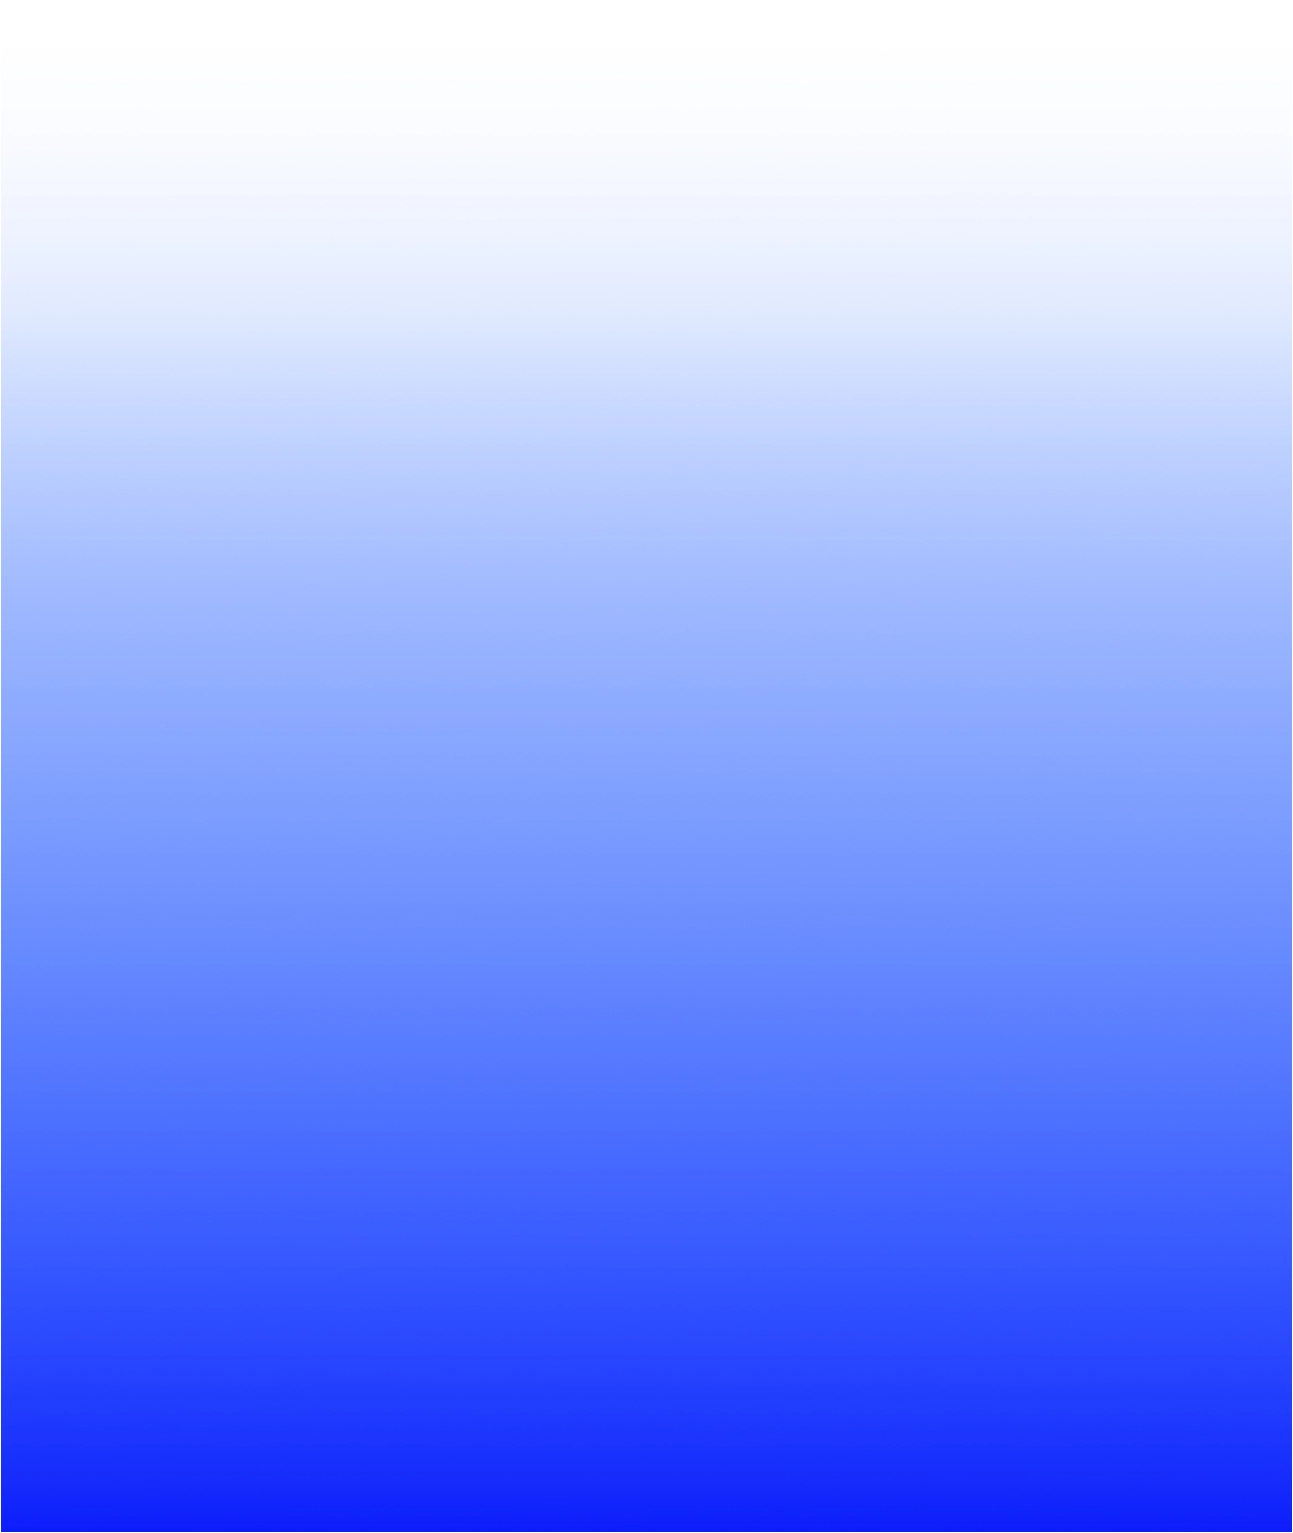
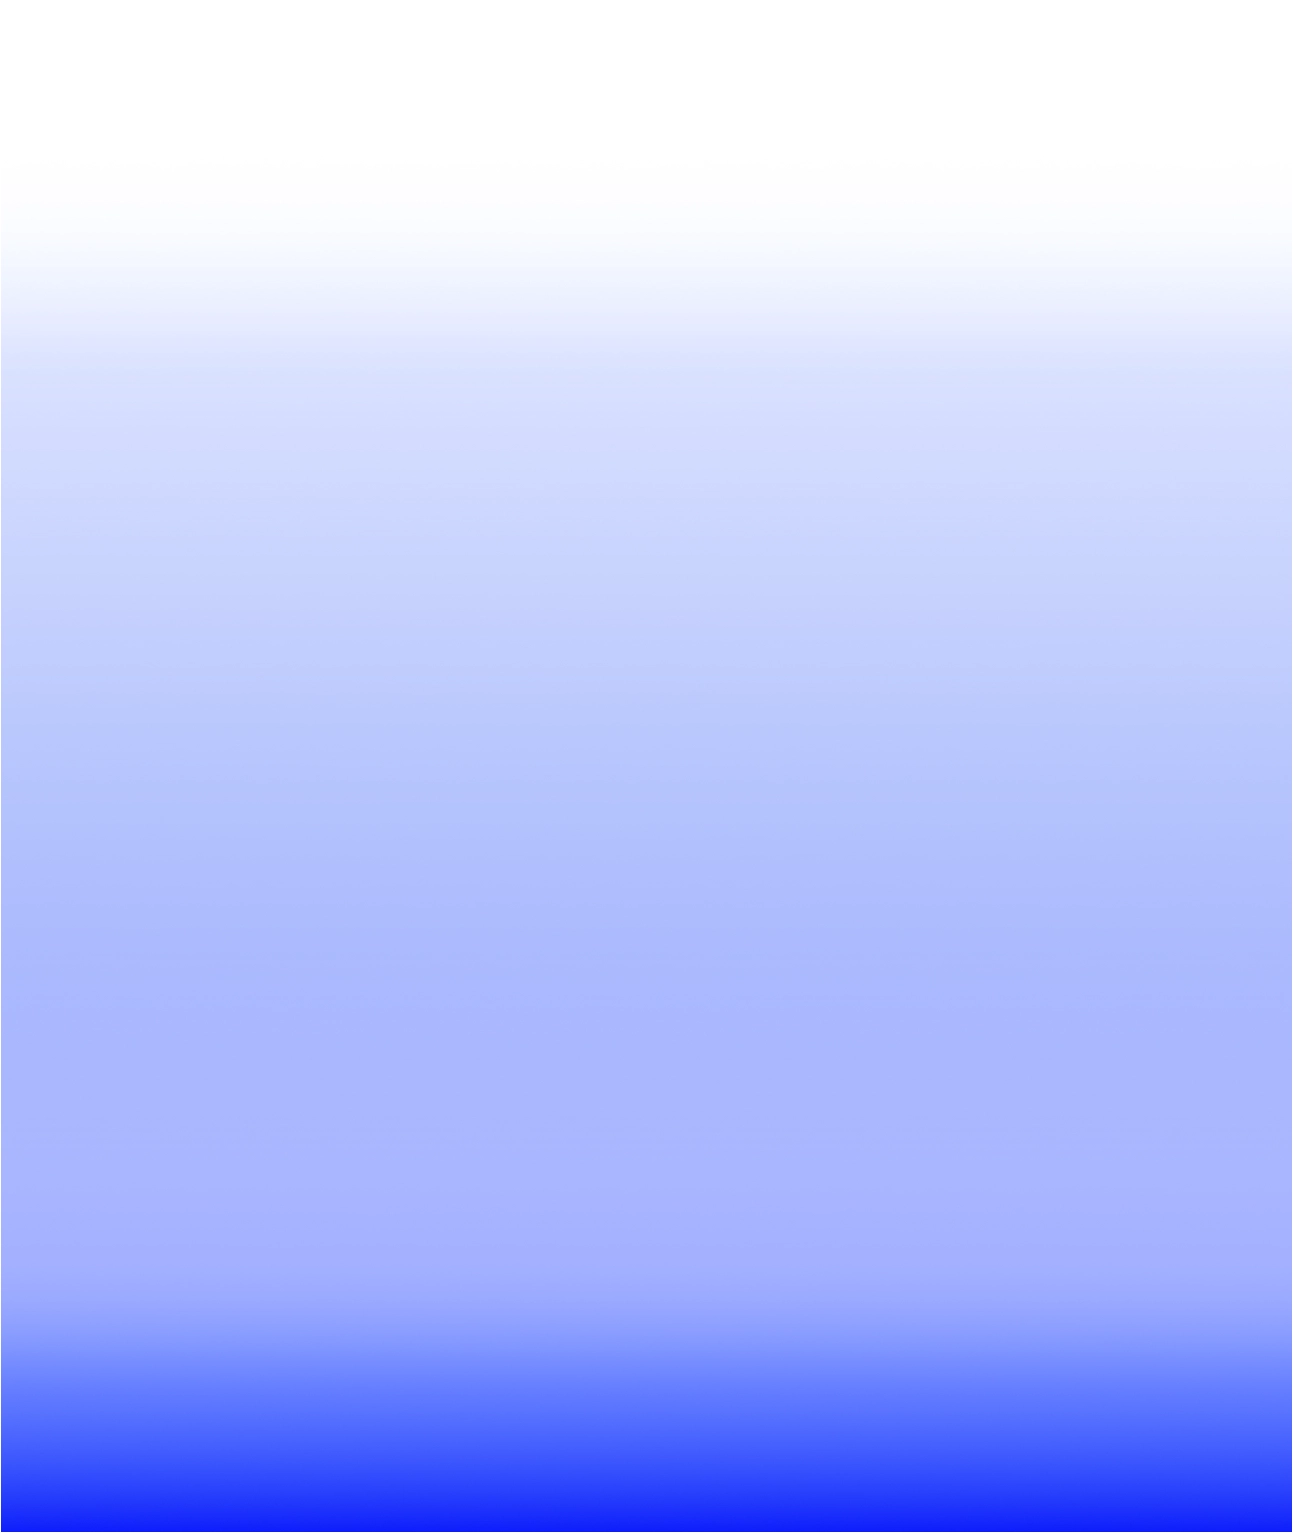
har ændret baggrunden så den ikke er så skarp

diff --git a/stot.html b/stot.html
@@ -69,19 +69,50 @@
     
     <section class="cirkler">
         <article id="circle1">
-        <p>Bliv frivillig</p>
+        <input type="checkbox" id="tryk1" hidden>
+        <label for="tryk1" class="open">Bliv frivillig</label>
+        <section class="popup">
+            <p>Du kan melde dig som frivillig og støtte Radar!</p>
+            <label for="tryk1" class="close">Luk</label>
+            <input type="checkbox" id="close1" hidden>
+            </section>
         </article>
+
         <article id="circle2">
-            <p>Doner</p>
+            <input type="checkbox" id="tryk2" hidden>
+        <label for="tryk2" class="open">Følg os på Instagram</label>
+        <section class="popup">
+            <p>Du kan melde dig som frivillig og støtte Radar!</p>
+            <label for="tryk2" class="close">Luk</label>
+            <input type="checkbox" id="close2" hidden>
+            </section>
         </article>
         <article id="circle3">
-            <p>Bliv frivillig</p>
+            <input type="checkbox" id="tryk3" hidden>
+        <label for="tryk3" class="open">Donér</label>
+        <section class="popup">
+            <p>Du kan melde dig som frivillig og støtte Radar!</p>
+            <label for="tryk3" class="close">Luk</label>
+            <input type="checkbox" id="close3" hidden>
+            </section>
         </article>
         <article id="circle4">
-            <p>Følg os på Instagram</p>
+            <input type="checkbox" id="tryk4" hidden>
+            <label for="tryk4" class="open">Køb billet</label>
+            <section class="popup">
+                <p>Du kan melde dig som frivillig og støtte Radar!</p>
+                <label for="tryk4" class="close">Luk</label>
+                <input type="checkbox" id="close4" hidden>
+                </section>
         </article>
         <article id="circle5">
-            <p>Del dine minder</p>
+            <input type="checkbox" id="tryk5" hidden>
+            <label for="tryk5" class="open">Del dine minder</label>
+            <section class="popup">
+                <p>Du kan melde dig som frivillig og støtte Radar!</p>
+                <label for="tryk5" class="close">Luk</label>
+                <input type="checkbox" id="close5" hidden>
+                </section>
         </article>
     </section>
 </section>

diff --git a/style.css/stot.css b/style.css/stot.css
@@ -34,7 +34,7 @@ h1 {
     text-align: center;
     margin-top: 350px;
     color: var(--primary-color);
-    font-size: 3rem;
+    font-size: 4rem;
 }
 
 p {
@@ -94,6 +94,62 @@ section.cirkler {
     justify-content: space-between;
     align-items: center;
 }
+
+.popup {
+    display: none;
+    position: absolute;
+    top: -20px;
+    left: 50%;
+    transform: translate(-50%);
+    background: #8099e4ed;
+    border: 1px solid var(--secondary-color);
+    padding: 10px;
+    border-radius: 0px;
+    box-shadow: 0 2px 5px var(--secondary-color);
+    z-index: 10;
+}
+
+input[type="checkbox"]#tryk1:checked ~ .popup,
+input[type="checkbox"]#tryk2:checked ~ .popup,
+input[type="checkbox"]#tryk3:checked ~ .popup,
+input[type="checkbox"]#tryk4:checked ~ .popup,
+input[type="checkbox"]#tryk5:checked ~ .popup {
+    display: block;
+}
+
+label.open {
+    cursor: pointer;
+    padding: 20px;
+    background-color: transparent;
+    color: white;
+    border-radius: 10%;
+    display: inline-block;
+    font-size: 2rem;
+    text-align: center;
+}
+
+label.open:hover {
+    background: var(--secondary-color);
+}
+
+label.close {
+    display: none;
+    cursor: pointer;
+    padding: 5px 10px;
+    background: var(--primary-color);
+    color: white;
+    border-radius: 5px;
+    margin-top: 10px;
+}
+
+input[type="checkbox"]#tryk1:checked ~ .popup label.close,
+input[type="checkbox"]#tryk2:checked ~ .popup label.close,
+input[type="checkbox"]#tryk3:checked ~ .popup label.close,
+input[type="checkbox"]#tryk4:checked ~ .popup label.close,
+input[type="checkbox"]#tryk5:checked ~ .popup label.close {
+    display: inline-block;
+}
+
 
 /*Navbarrens redigering*/
 header .navbar ul {
